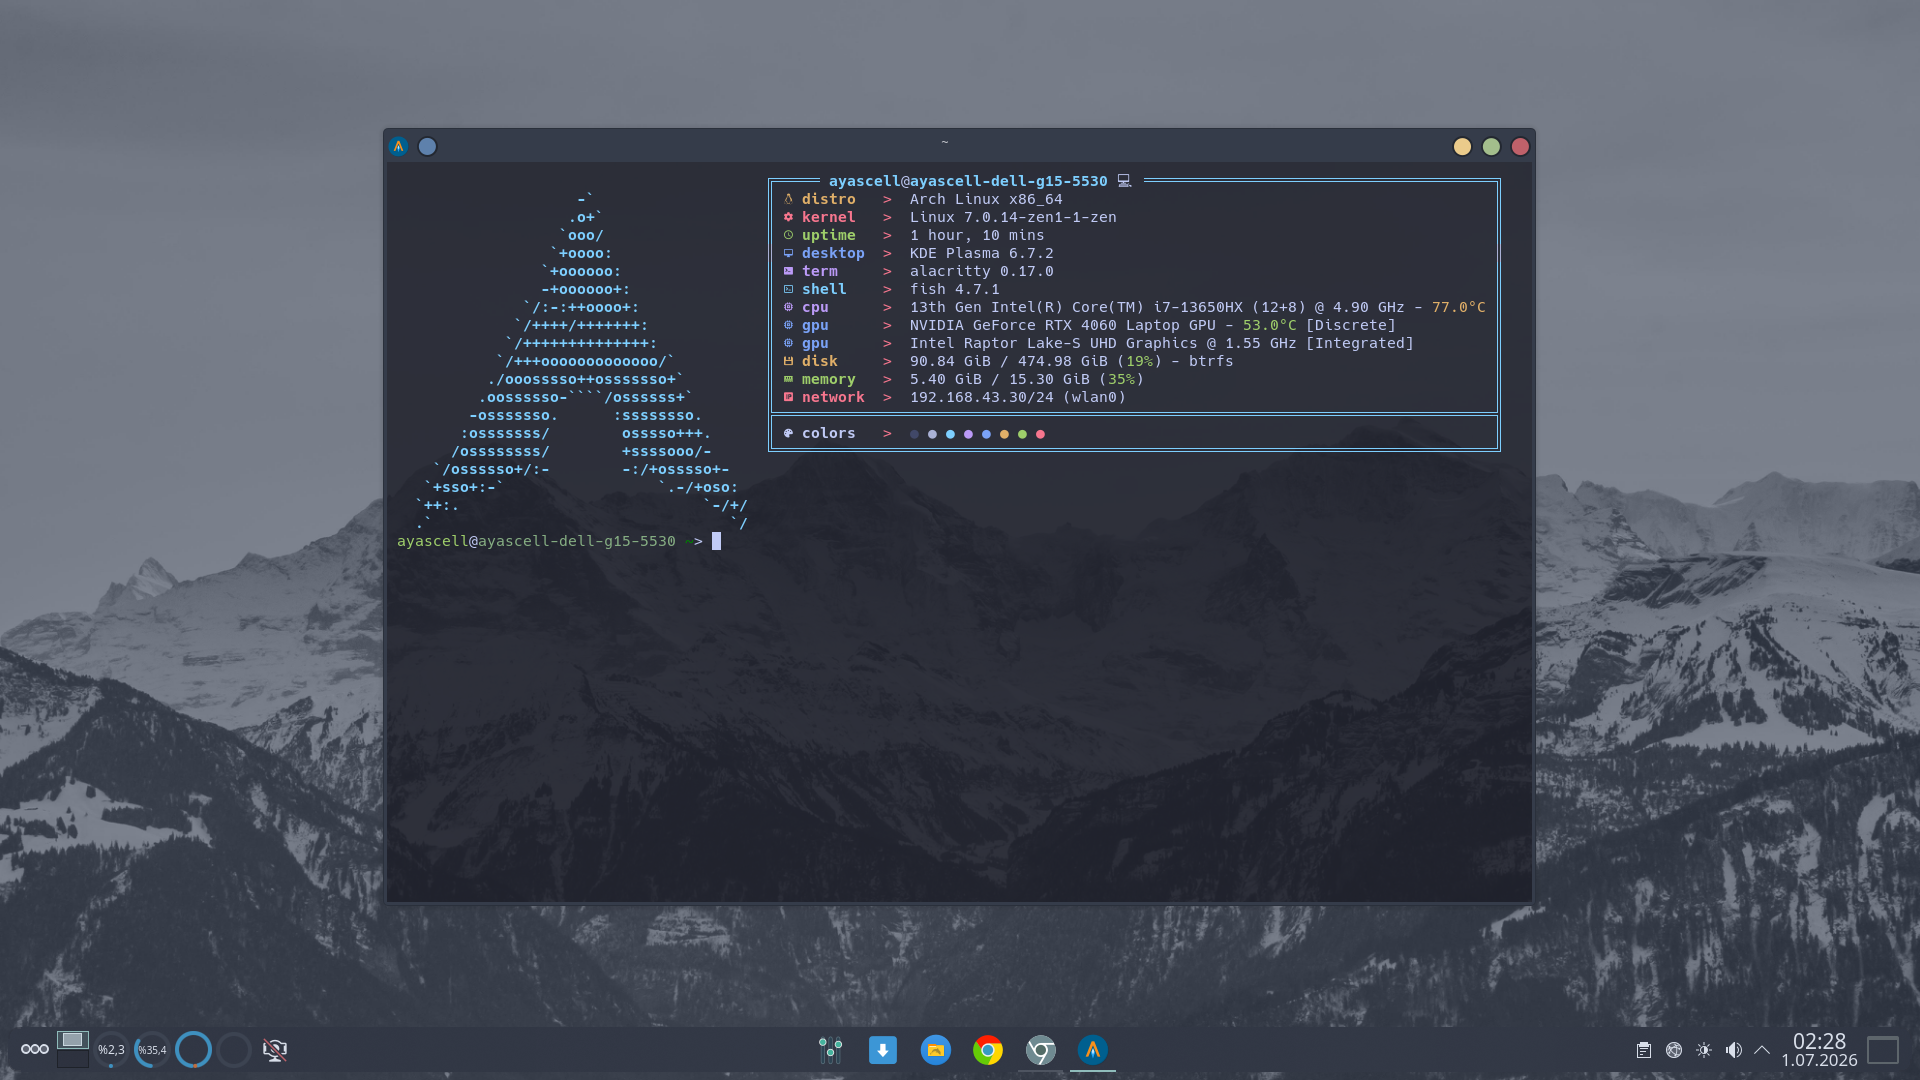
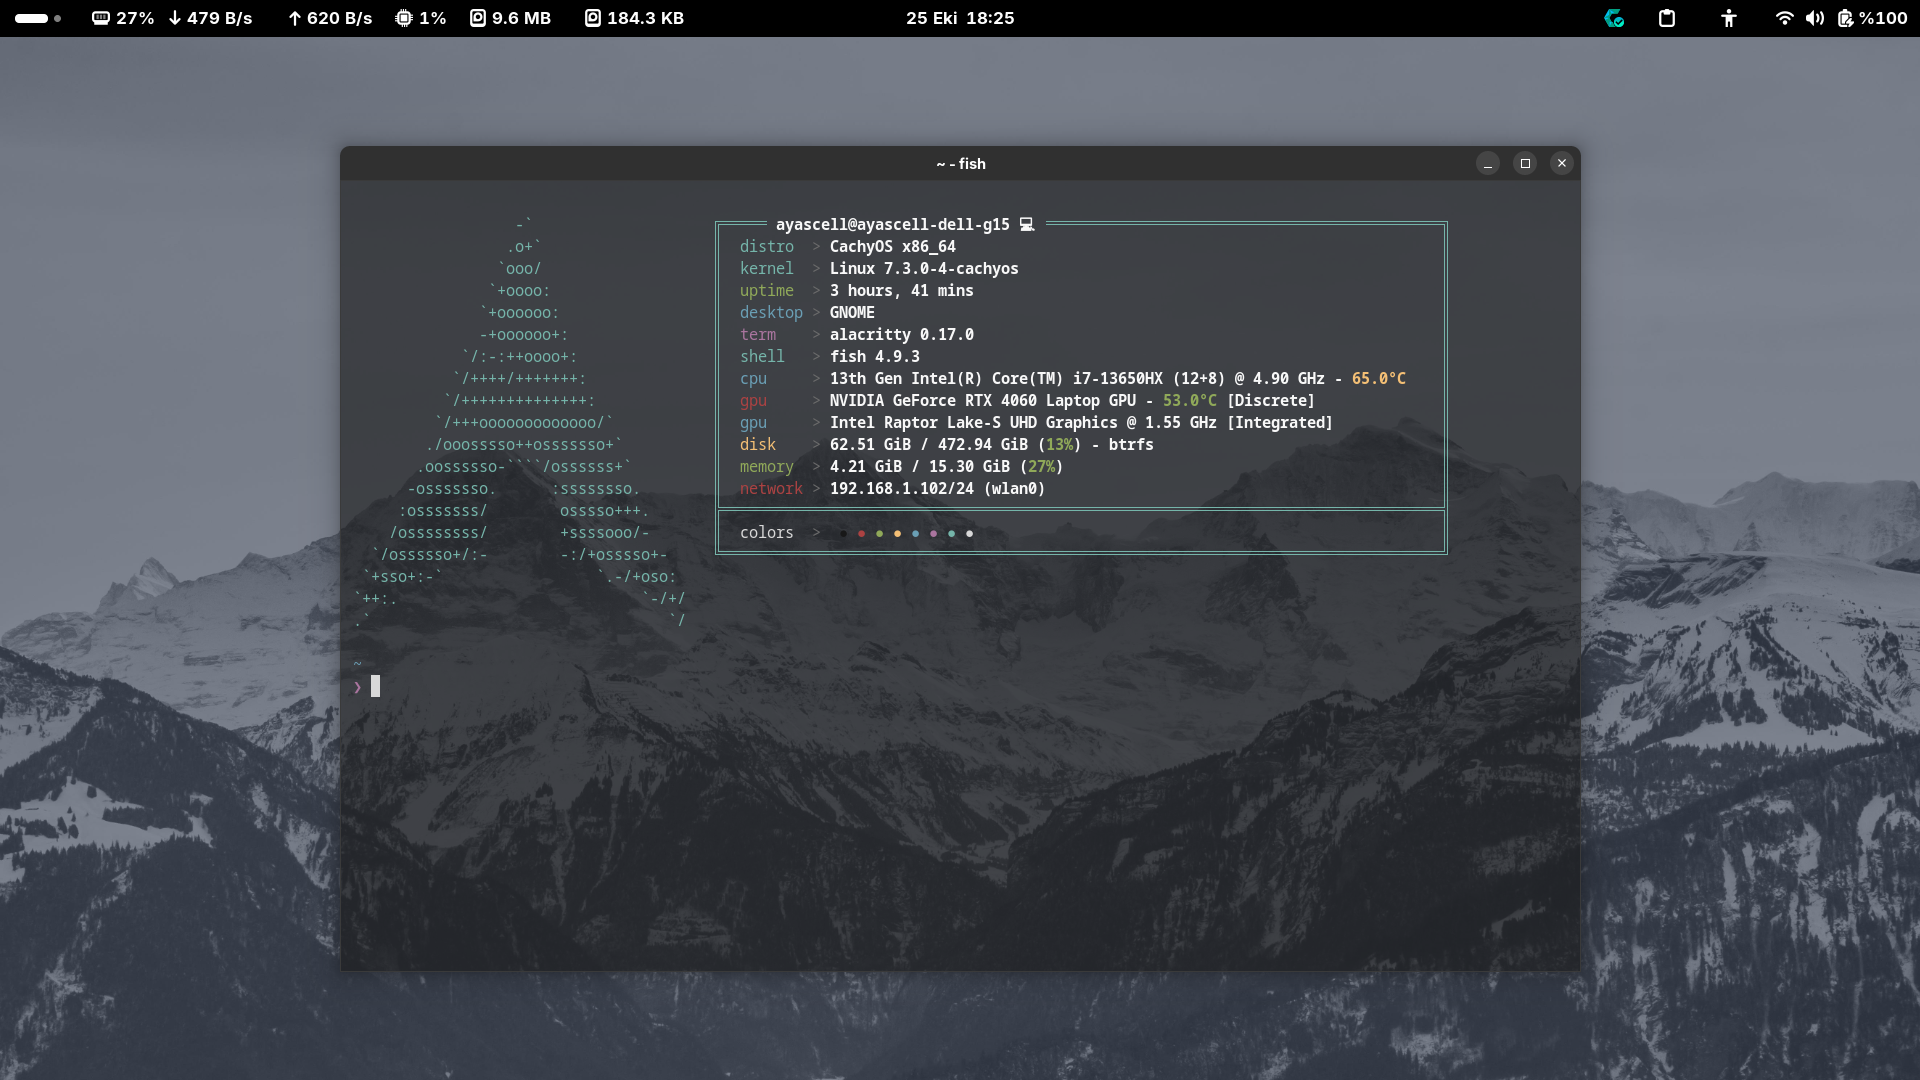
feat(setup): update Arch Linux screenshot and remove Pika OS

diff --git a/setup.html b/setup.html
@@ -15,9 +15,9 @@
     <!-- SEO & Canonical -->
     <link rel="canonical" href="https://ayascell.com/setup.html">
     <meta name="description"
-        content="AYASCELL Çalışma Ortamı & Donanım - Dell G15 5530 (i7-13650HX, RTX 4060, 16GB DDR5, 2.5TB Kioxia SSD), Arch Linux, Pika OS ve Windows 11 Pro çoklu işletim sistemi altyapısı.">
+        content="AYASCELL Çalışma Ortamı & Donanım - Dell G15 5530 (i7-13650HX, RTX 4060, 16GB DDR5, 2.5TB Kioxia SSD), Arch Linux ve Windows 11 Pro çoklu işletim sistemi altyapısı.">
     <meta name="keywords"
-        content="AYASCELL, Donanım, Setup, Çalışma Ortamı, Dell G15 5530, RTX 4060, Arch Linux, Pika OS, Windows 11 Pro, Hardware Specs, Linux Developer Setup">
+        content="AYASCELL, Donanım, Setup, Çalışma Ortamı, Dell G15 5530, RTX 4060, Arch Linux, Windows 11 Pro, Hardware Specs, Linux Developer Setup">
     <meta name="author" content="AYASCELL">
     <meta name="robots" content="index, follow">
 
@@ -64,7 +64,7 @@
         "name": "AYASCELL",
         "url": "https://ayascell.com/"
       },
-      "description": "AYASCELL geliştirme ortamı, Dell G15 5530 donanımı, Arch Linux, Pika OS ve Windows 11 Pro işletim sistemleri detaylı dökümü."
+      "description": "AYASCELL geliştirme ortamı, Dell G15 5530 donanımı, Arch Linux ve Windows 11 Pro işletim sistemleri detaylı dökümü."
     }
     </script>
 
@@ -199,7 +199,7 @@
                         </div>
                         <div class="quick-chip chip-os">
                             <i class="fas fa-layer-group"></i>
-                            <span>Arch / Pika / Win 11 Pro</span>
+                            <span>Arch Linux / Win 11 Pro</span>
                         </div>
                     </div>
                 </div>
@@ -219,9 +219,9 @@
                     <span class="lang-en">Operating Systems</span>
                 </h2>
                 <p class="sub-section-desc">
-                    <span class="lang-tr">İhtiyaca göre özelleşmiş üç farklı ortam arasında iş akışımı
+                    <span class="lang-tr">İhtiyaca göre özelleşmiş iki farklı ortam arasında iş akışımı
                         paylaştırıyorum.</span>
-                    <span class="lang-en">Workflows distributed across three dedicated environments optimized for
+                    <span class="lang-en">Workflows distributed across two dedicated environments optimized for
                         specific tasks.</span>
                 </p>
             </div>
@@ -269,53 +269,12 @@
                     </div>
                 </article>
 
-                <!-- OS 2: PIKA OS -->
-                <article class="os-station-card os-card-pika hover-lift">
-                    <div class="os-top-hud">
-                        <div class="os-hud-status">
-                            <span class="os-live-pulse"></span>
-                            <span class="os-station-id">STATION 02</span>
-                        </div>
-                        <span class="os-role-pill role-secondary">
-                            <span class="lang-tr">OS Geliştirme</span>
-                            <span class="lang-en">OS Development</span>
-                        </span>
-                    </div>
-
-                    <div class="os-card-header">
-                        <div class="os-brand-icon pika-brand">
-                            <img src="assets/pika-os.png" alt="Pika OS Logo" class="pika-round-logo">
-                        </div>
-                        <div class="os-title-meta">
-                            <h3>Pika OS</h3>
-                        </div>
-                    </div>
-
-                    <div class="os-screenshot-wrapper">
-                        <div class="os-viewport-bar">
-                            <span class="viewport-dots"><i></i><i></i><i></i></span>
-                            <span class="viewport-label">PIKA_DISPLAY // 1080P</span>
-                        </div>
-                        <img src="assets/deb.png" alt="Pika OS Desktop Setup" class="os-desktop-thumb">
-                        <span class="zoom-hint-badge"><i class="fas fa-search-plus"></i> <span
-                                class="lang-tr">Büyüt</span><span class="lang-en">Zoom</span></span>
-                    </div>
-
-                    <div class="os-specs-list">
-                        <div class="os-spec-tag">
-                            <i class="fas fa-compact-disc spec-icon"></i>
-                            <span class="lang-tr">OS geliştirme ortamım (Ayas OS çekirdek, paket & ISO testleri)</span>
-                            <span class="lang-en">OS development environment (Ayas OS kernel, packaging & ISO builds)</span>
-                        </div>
-                    </div>
-                </article>
-
-                <!-- OS 3: WINDOWS 11 PRO -->
+                <!-- OS 2: WINDOWS 11 PRO -->
                 <article class="os-station-card os-card-windows hover-lift">
                     <div class="os-top-hud">
                         <div class="os-hud-status">
                             <span class="os-live-pulse"></span>
-                            <span class="os-station-id">STATION 03</span>
+                            <span class="os-station-id">STATION 02</span>
                         </div>
                         <span class="os-role-pill role-general">
                             <span class="lang-tr">Genel Kullanım & Oyun</span>
@@ -440,9 +399,9 @@
                                     <span class="drive-capacity">M.2 NVMe PCIe 4.0</span>
                                 </div>
                                 <div class="drive-caption">
-                                    <span class="lang-tr">Arch Linux, Pika OS ve Windows 11 Pro sistem kök
+                                    <span class="lang-tr">Arch Linux ve Windows 11 Pro sistem kök
                                         dizinleri</span>
-                                    <span class="lang-en">System partitions for Arch Linux, Pika OS, and Windows 11
+                                    <span class="lang-en">System partitions for Arch Linux and Windows 11
                                         Pro</span>
                                 </div>
                             </div>
@@ -573,7 +532,7 @@
                         </div>
                         <div class="meta-item">
                             <span class="meta-label">SYSTEMS:</span>
-                            <span class="meta-val gold">Arch Linux + Pika OS + Win 11 Pro</span>
+                            <span class="meta-val gold">Arch Linux + Win 11 Pro</span>
                         </div>
                         <div class="meta-item">
                             <span class="meta-label">AUTHOR:</span>

diff --git a/style.css b/style.css
@@ -1558,36 +1558,6 @@ body.show-en div.lang-en, body.show-en p.lang-en, body.show-en h1.lang-en, body.
     box-shadow: 0 0 15px rgba(23, 147, 209, 0.4);
 }
 
-/* Pika OS (Crimson / Magenta Cyber Workstation) */
-.os-card-pika {
-    background: 
-        linear-gradient(rgba(215, 10, 83, 0.035) 1px, transparent 1px) 0 0 / 22px 22px,
-        linear-gradient(90deg, rgba(215, 10, 83, 0.035) 1px, transparent 1px) 0 0 / 22px 22px,
-        radial-gradient(circle at 100% 0%, rgba(215, 10, 83, 0.25) 0%, transparent 60%),
-        radial-gradient(circle at 0% 100%, rgba(215, 10, 83, 0.12) 0%, transparent 50%),
-        linear-gradient(160deg, #1c0613 0%, #080206 100%);
-    border: 1px solid rgba(215, 10, 83, 0.35);
-    border-left: 6px solid #D70A53;
-    border-top: 1px solid rgba(215, 10, 83, 0.5);
-}
-.os-card-pika:hover {
-    border-color: rgba(215, 10, 83, 0.75);
-    box-shadow: 0 24px 55px rgba(0, 0, 0, 0.85), 0 0 35px rgba(215, 10, 83, 0.35);
-}
-.os-card-pika .pika-brand {
-    background: rgba(215, 10, 83, 0.12);
-    border-color: rgba(215, 10, 83, 0.4);
-    box-shadow: 0 0 20px rgba(215, 10, 83, 0.25);
-}
-.os-card-pika .spec-icon {
-    color: #D70A53;
-}
-.os-card-pika .os-screenshot-wrapper:hover .zoom-hint-badge {
-    background: rgba(215, 10, 83, 0.35);
-    border-color: #D70A53;
-    color: #fff;
-    box-shadow: 0 0 15px rgba(215, 10, 83, 0.4);
-}
 
 /* Windows 11 Pro (Windows Blue Cyber Workstation) */
 .os-card-windows {
@@ -1681,12 +1651,6 @@ body.show-en div.lang-en, body.show-en p.lang-en, body.show-en h1.lang-en, body.
     transform: scale(1.06);
 }
 
-.pika-round-logo {
-    width: 44px;
-    height: 44px;
-    border-radius: 50%;
-    object-fit: contain;
-}
 
 .os-title-meta {
     display: flex;
